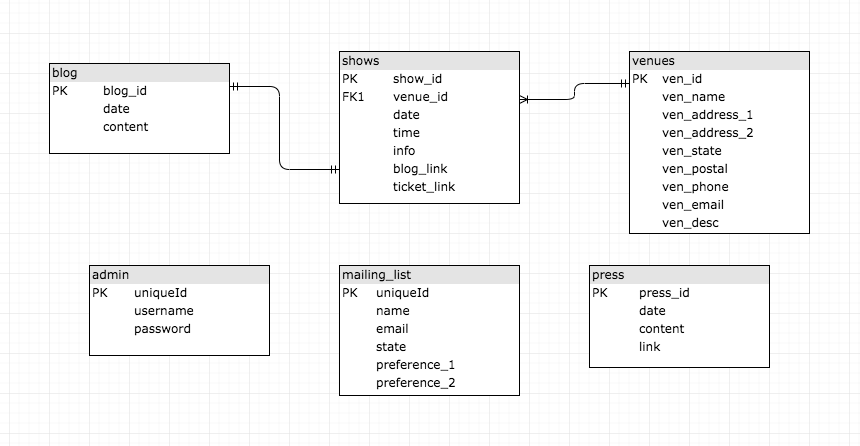
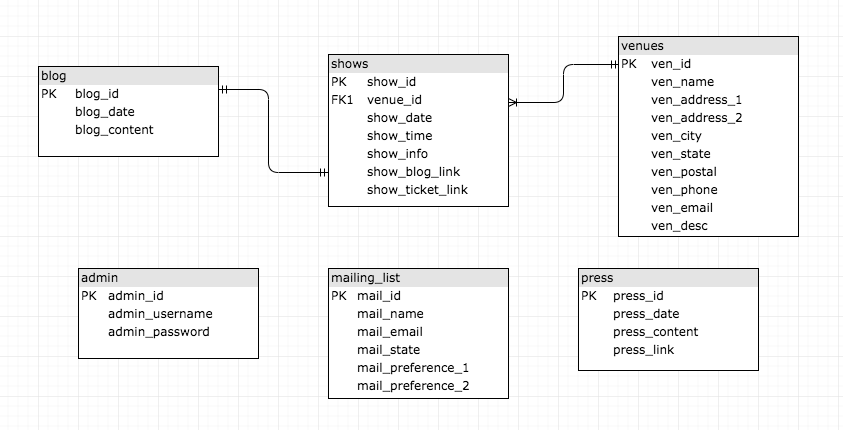
migrations and seeding working

diff --git a/migrations/20180929142647_brakumo.js b/migrations/20180929142647_brakumo.js
@@ -1,0 +1,71 @@
+
+exports.up = function(knex, Promise) {
+    return Promise.all([
+      knex.schema.createTable("venues", function (table) {
+        table.increments('ven_id').primary();
+        table.string('ven_name').notNullable().defaultTo('');
+        table.string('ven_address_1').notNullable().defaultTo('');
+        table.string('ven_address_2').notNullable().defaultTo('');
+        table.string('ven_city').notNullable().defaultTo('');
+        table.string('ven_state').notNullable().defaultTo('');
+        table.string('ven_postal').notNullable().defaultTo('');
+        table.string('ven_phone').notNullable().defaultTo('');
+        table.string('ven_web').notNullable().defaultTo('');
+        table.string('ven_desc').notNullable().defaultTo('');
+      }),
+  
+      knex.schema.createTable("press", function (table) {
+        table.increments('press_id').primary();
+        table.date('press_date');
+        table.string('press_publication').notNullable().defaultTo('');
+        table.string('press_author').notNullable().defaultTo('');
+        table.string('press_content').notNullable().defaultTo('');
+        table.string('press_link').notNullable().defaultTo('');
+      }),
+
+      knex.schema.createTable("mailing_list", function (table) {
+        table.increments('mail_id').primary();
+        table.string('mail_name').notNullable().defaultTo('');
+        table.string('mail_email').notNullable().defaultTo('');
+        table.string('mail_state').notNullable().defaultTo('');
+        table.boolean('mail_preference_1').notNullable().defaultTo(false);
+        table.boolean('mail_preference_2').notNullable().defaultTo(false);
+      }),
+
+      knex.schema.createTable("admin", function (table) {
+        table.increments('admin_id').primary();
+        table.string('admin_username').notNullable().defaultTo('');
+        table.string('admin_password').notNullable().defaultTo('');
+      }),
+
+      knex.schema.createTable("blogs", function (table) {
+        table.increments('blog_id').primary();
+        table.date('blog_date');
+        table.string('blog_title').notNullable().defaultTo('');
+        table.string('blog_content').notNullable().defaultTo('');
+      }),
+
+      knex.schema.createTable("shows", function (table) {
+        table.increments('show_id').primary();
+        table.integer('venue_id');
+        table.foreign('venue_id').onDelete('CASCADE').references('ven_id').inTable('venues');
+        table.date('show_date');
+        table.time('show_time');
+        table.string('show_info').notNullable().defaultTo('');
+        table.integer('show_blog_link')
+        table.foreign('show_blog_link').onDelete('CASCADE').references('blog_id').inTable('blogs');
+        table.string('show_ticket_link').notNullable().defaultTo('');
+      })
+    ]);
+  };
+  
+  exports.down = function(knex, Promise) {
+    return Promise.all([
+        knex.schema.dropTable("shows"),
+        knex.schema.dropTable("blogs"),
+        knex.schema.dropTable("venues"),
+        knex.schema.dropTable("press"),
+        knex.schema.dropTable("admin"),
+        knex.schema.dropTable("mailing_list")
+    ]);
+  };

diff --git a/seeds/seed_01_venues.js b/seeds/seed_01_venues.js
@@ -1,0 +1,43 @@
+
+exports.seed = function(knex, Promise) {
+  // Deletes ALL existing entries
+  return knex('venues').del()
+    .then(function () {
+      // Inserts seed entries
+      return knex('venues').insert([
+        {
+          "ven_name": "Sahara Lounge",
+          "ven_address_1": "1413 Webberville Rd",
+          "ven_address_2": "",
+          "ven_city": "Austin",
+          "ven_state": "TX",
+          "ven_postal": "78721",
+          "ven_phone": "(512) 927-0700",
+          "ven_web": "https://saharalounge.com/",
+          "ven_desc": "Laid-back live music venue with an African twist featuring an eclectic lineup & signature cocktails."
+        },
+        {
+          "ven_name": "Spider House Ballroom",
+          "ven_address_1": "2908 Fruth St",
+          "ven_address_2": "",
+          "ven_city": "Austin",
+          "ven_state": "TX",
+          "ven_postal": "78705",
+          "ven_phone": "(512) 480-9562",
+          "ven_web": "https://spiderhouse.com/",
+          "ven_desc": "Eclectic performance space featuring diverse events (live music, DJs & comedy), a full bar & patio."
+        },
+        {
+          "ven_name": "Elysium",
+          "ven_address_1": "705 Red River St,",
+          "ven_address_2": "",
+          "ven_city": "Austin",
+          "ven_state": "TX",
+          "ven_postal": "78701",
+          "ven_phone": "(512) 478-8385",
+          "ven_web": "http://www.elysiumonline.net/",
+          "ven_desc": "Goth & industrial dance music from DJs & live bands, with theme nights, sunken dance floor & patio."
+        }
+      ]);
+    });
+};

diff --git a/seeds/seed_02_press.js b/seeds/seed_02_press.js
@@ -1,0 +1,31 @@
+
+exports.seed = function(knex, Promise) {
+  // Deletes ALL existing entries
+  return knex('press').del()
+    .then(function () {
+      // Inserts seed entries
+      return knex('press').insert([
+        {
+          "press_date": "2017-04-20",
+          "press_publication": "The Austin Chronicle",
+          "press_author": "Johnny Walker",
+          "press_content": "Without a doubt, the shittiest band I've ever seen allowed on a stage. I had to make a doctor's appointment the following day.",
+          "press_link": "https://www.austinchronicle.com/"
+        },
+        {
+          "press_date": "2018-01-01",
+          "press_publication": "Pitchfork",
+          "press_author": "Jim Beam",
+          "press_content": "I really started my new year off wrong by listening to the latest offering from Brakumo. I could make better music by vomitting on my cat, which I actually did 10 seconds into the first track.",
+          "press_link": "https://pitchfork.com/"
+        },
+        {
+          "press_date": "2018-06-05",
+          "press_publication": "Rolling Stone",
+          "press_author": "Jack Daniels",
+          "press_content": "I wish I'd received a CD or LP of Brakumo's lateset album so I could line my birdcage with the cover art.",
+          "press_link": "https://www.rollingstone.com/"
+        }
+      ]);
+    });
+};

diff --git a/seeds/seed_05_shows.js b/seeds/seed_05_shows.js
@@ -1,0 +1,34 @@
+
+exports.seed = function(knex, Promise) {
+  // Deletes ALL existing entries
+  return knex('shows').del()
+    .then(function () {
+      // Inserts seed entries
+      return knex('shows').insert([
+        {
+          "venue_id": 1,
+          "show_date": "2018-08-15",
+          "show_time": "12:29:45",
+          "show_info": "$100 cover - free parking",
+          "show_blog_link": 1,
+          "show_ticket_link": "NA",
+        },
+        {
+          "venue_id": 2,
+          "show_date": "2018-08-18",
+          "show_time": "12:29:45",
+          "show_info": "With special guests Dick Dribbler, Poopshoot, and Metallica",
+          "show_blog_link": 2,
+          "show_ticket_link": "NA",
+        },
+        {
+          "venue_id": 3,
+          "show_date": "2018-08-15",
+          "show_time": "12:29:45",
+          "show_info": "Album release party with free peppermint string cheese and okra buffet",
+          "show_blog_link": 3,
+          "show_ticket_link": "https://www.ticketmaster.com/",
+        },
+      ]);
+    });
+};

diff --git a/seeds/seed_05_blogs.js b/seeds/seed_05_blogs.js
@@ -1,0 +1,25 @@
+
+exports.seed = function(knex, Promise) {
+  // Deletes ALL existing entries
+  return knex('blogs').del()
+    .then(function () {
+      // Inserts seed entries
+      return knex('blogs').insert([
+        {
+          "blog_date": "2018-08-16",
+          "blog_title": "Barely an ER visit",
+          "blog_content": "I only needed 8 stitches from the bottle that clipped my head last night. I think that's reason enough to call it the best show to date!",
+        },
+        {
+          "blog_date": "2018-08-19",
+          "blog_title": "Friday! Friday! Friday!",
+          "blog_content": "I can't believe someone actually booked me on a Friday night. Idiots",
+        },
+        {
+          "blog_date": "2018-09-02",
+          "blog_title": "Whatever...",
+          "blog_content": "Someone stole all my equipment after last night's show. But I'd stolen it from the opening band, so don't worry. It's no big deal.",
+        }
+      ]);
+    });
+};

diff --git a/seeds/seed_03_mailing_list.js b/seeds/seed_03_mailing_list.js
@@ -1,0 +1,28 @@
+
+exports.seed = function(knex, Promise) {
+  // Deletes ALL existing entries
+  return knex('mailing_list').del()
+    .then(function () {
+      // Inserts seed entries
+      return knex('mailing_list').insert([
+        {
+          "mail_email": "johnny_walker@austinchronicle.com",
+          "mail_state": "Texas",
+          "mail_preference_1": "FALSE",
+          "mail_preference_2": "FALSE"
+        },
+        {
+          "mail_email": "jim_beam@pitchfork.com",
+          "mail_state": "California",
+          "mail_preference_1": "FALSE",
+          "mail_preference_2": "FALSE"
+        },
+        {
+          "mail_email": "jack_daniels@rollingstone.com",
+          "mail_state": "New York",
+          "mail_preference_1": "FALSE",
+          "mail_preference_2": "FALSE"
+        }
+      ]);
+    });
+};

diff --git a/knexfile.js b/knexfile.js
@@ -1,0 +1,21 @@
+// Update with your config settings.
+
+module.exports = {
+
+  development: {
+    client: 'pg',
+    connection: 'postgres://localhost/brakumo'
+  },
+
+  production: {
+    client: 'postgresql',
+    connection: process.env.DATABASE_URL + `?ssl=true`,
+    pool: {
+      min: 2,
+      max: 10
+    },
+    migrations: {
+      tableName: 'knex_migrations'
+    }
+  }
+};

diff --git a/seeds/seed_04_admin.js b/seeds/seed_04_admin.js
@@ -1,0 +1,14 @@
+
+exports.seed = function(knex, Promise) {
+  // Deletes ALL existing entries
+  return knex('admin').del()
+    .then(function () {
+      // Inserts seed entries
+      return knex('admin').insert([
+        {
+          "admin_username": "linearsix",
+          "admin_password": "1BrakumoIsEnough!"
+        },
+      ]);
+    });
+};
